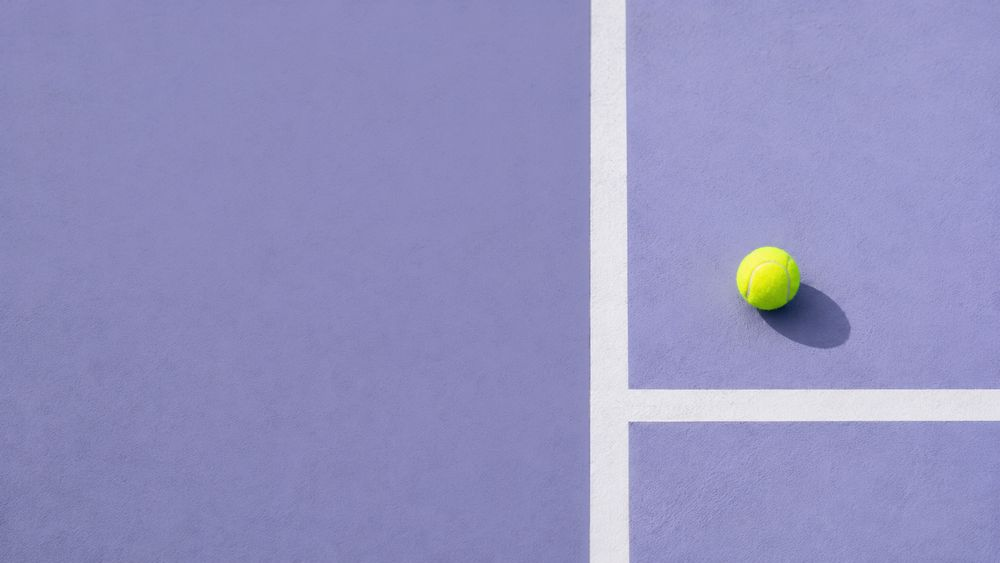
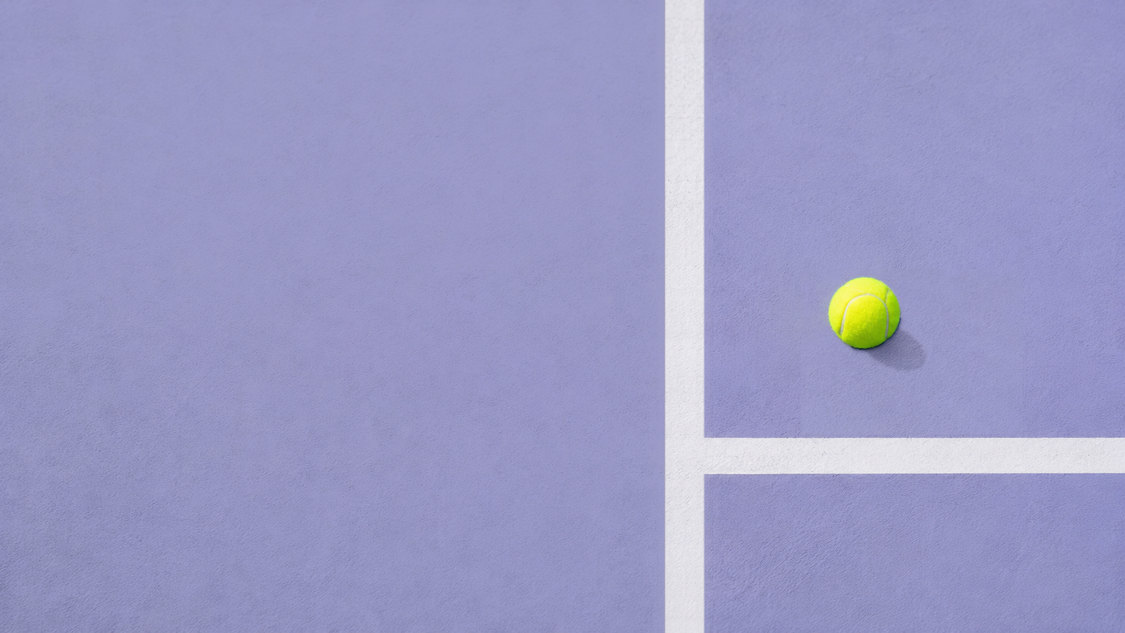
创建活动页顶部加概要卡（球网插画，选项一改就跟着变）、第一张卡加标题、选中样式统一；添加球拍页顶部改成淡紫渐变卡；活动首页球场图从原图重做（竖线拉直、左右场地同色、球影变短变淡、按 3 倍屏 1125 宽）

Changed region(s): [[0.744, 0.4831, 0.868, 0.6341], [0.62, 0.7549, 0.651, 1.0], [0.744, 0.4529, 0.775, 0.4831]]

diff --git a/pages/draw-new/draw-new.js b/pages/draw-new/draw-new.js
@@ -26,7 +26,7 @@ Page({
     sizes: SIZES, groupOpts: GROUPS,
     chips: [], seedChips: [], seedList: [], teamList: [],
     info: '', seedInfo: '', canDraw: false, preview: null, saving: false,
-    recentPlaces: [],
+    recentPlaces: [], heroTop: '', heroSub: '',
     fromSignup: false, // 从「报名」进来：用报名名单抽签，赛制已锁定
   },
 
@@ -178,7 +178,18 @@ Page({
     if (!silent) wx.showToast({ title: `已按水平推荐 ${this.seeds.length} ${this.seedUnit()}${this.seedName()}`, icon: 'none' });
   },
 
+  // 顶部概要：形式 · 签数 / 组数 · 参加方式；日期 · 时间 · 单双打 · 组别
+  setHero() {
+    const { mode, size, groupCount, entry, type, category, fromSignup } = this.data;
+    const i = this.info || {};
+    const top = [E.MODES[mode], mode === 'bracket' ? `${size} 签` : (groupCount === 1 ? '大循环' : `${groupCount} 组`), fromSignup ? '' : (entry === 'signup' ? '开放报名' : '我来选人')];
+    const cat = { m: '男子', f: '女子', mixed: '混双' }[category] || '';
+    const sub = (fromSignup ? [] : [E.dayText(i.date) || '日期待定', i.startTime || '时间待定']).concat([type === 'double' ? '双打' : '单打', cat]);
+    const heroTop = top.filter(Boolean).join(' · '), heroSub = sub.filter(Boolean).join(' · ');
+    if (heroTop !== this.data.heroTop || heroSub !== this.data.heroSub) this.setData({ heroTop, heroSub });
+  },
   refresh() {
+    this.setHero();
     const { mode, size, groupCount, entry } = this.data;
     const dbl = this.isDouble();
     const ents = this.entrants();
@@ -255,7 +266,7 @@ Page({
   },
 
   onTitle(e) { if (!this.data.fromSignup) this.setData({ title: e.detail.value }); },
-  onInfo(e) { this.info = e.detail; },
+  onInfo(e) { this.info = e.detail; this.setHero(); },
 
   inputTitle() {
     const title = this.data.title.trim();
